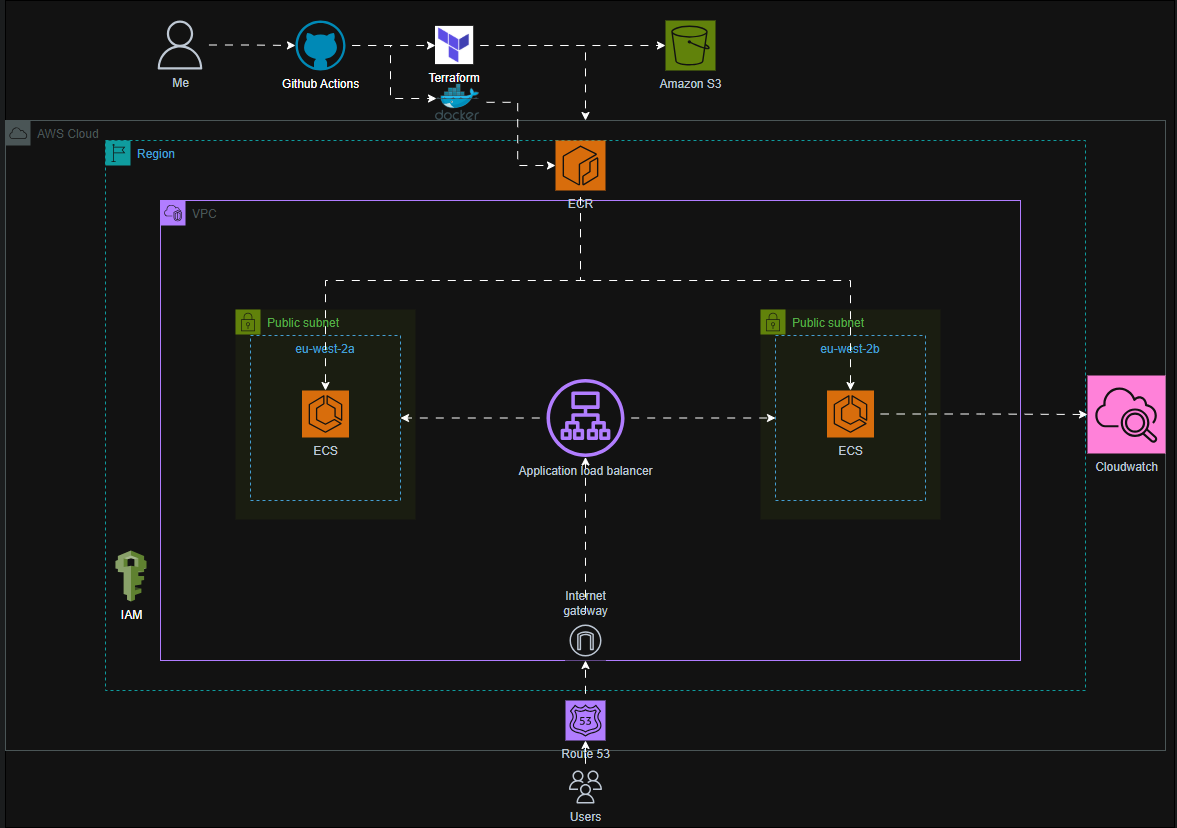
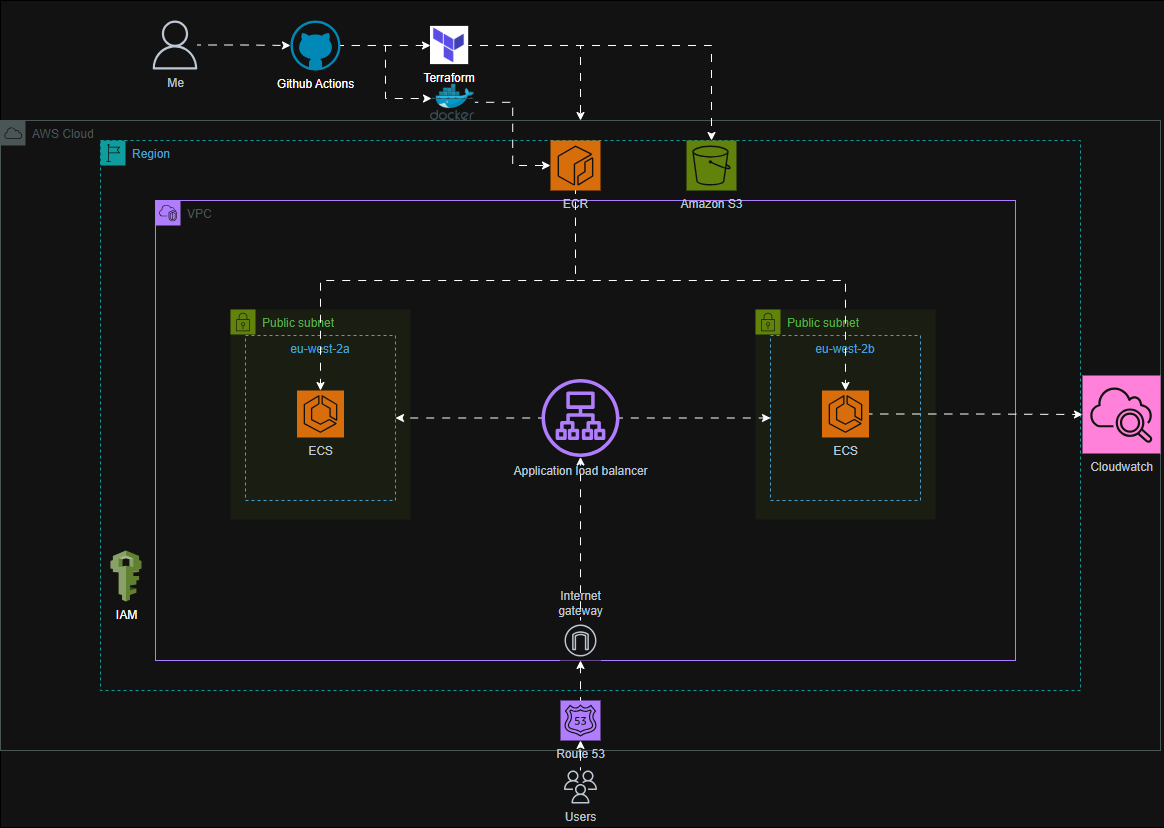
Start Readme

diff --git a/README.md b/README.md
@@ -2,10 +2,12 @@
 
 ## Overview
 
-This project deploys a containerised threat composer application into an **AWS ECS Fargate** using **Terraform**, whilst being automated using **Github Actions**
+This project deploys a containerised Threat Composer application on **AWS ECS Fargate** using **Terraform**, with the deployment fully automated through **GitHub Actions**.
 
-## Architechture Diagram
+The setup was created to **automate the deployment** of the threat modelling tool, eliminating the need to manually create AWS resources by leveraging **Infrastructure as Code (IaC)** using Terraform — just like it would be in a real-world production environment!
+
+## Architecture Diagram
 
 <p align="center">
-    <img src="images/architechture diagram.png" style= "width:700px"/>
+  <img src="images/architecture diagram.png" style="width:700px"/>
 </p>
